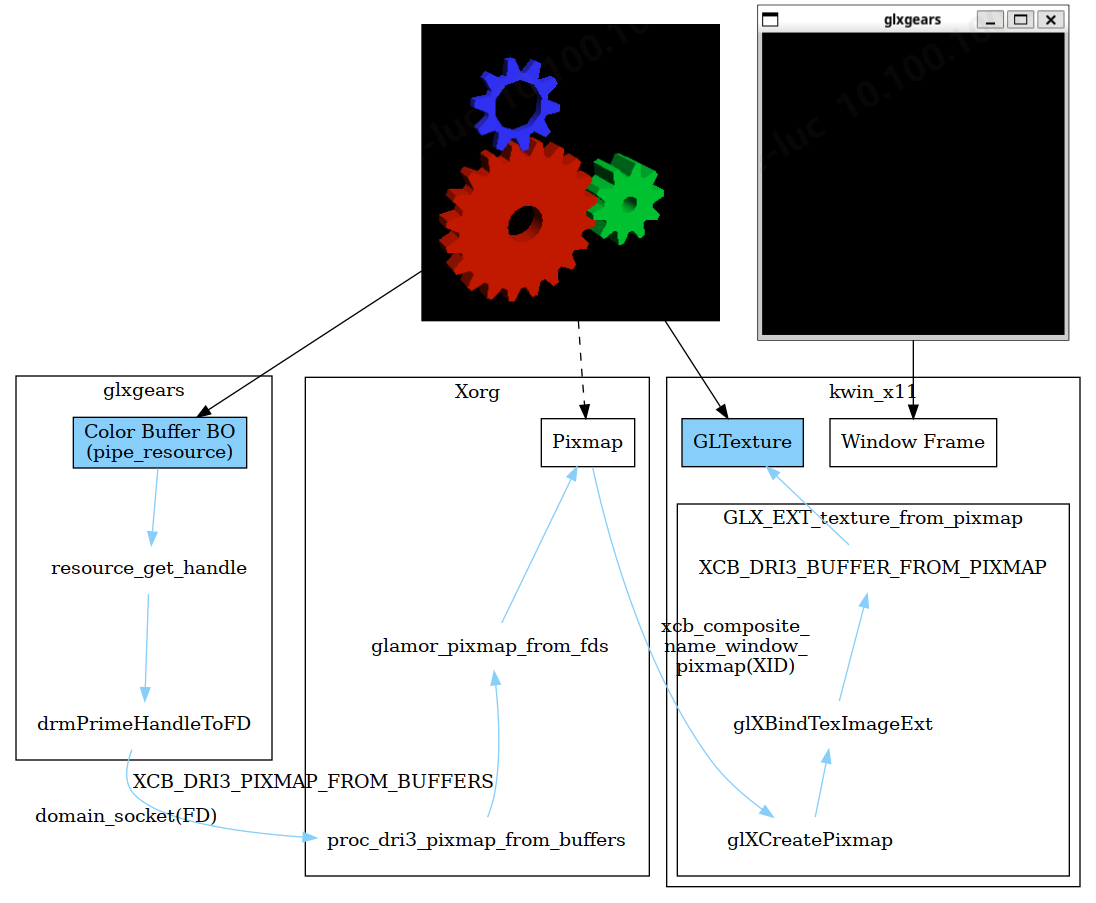
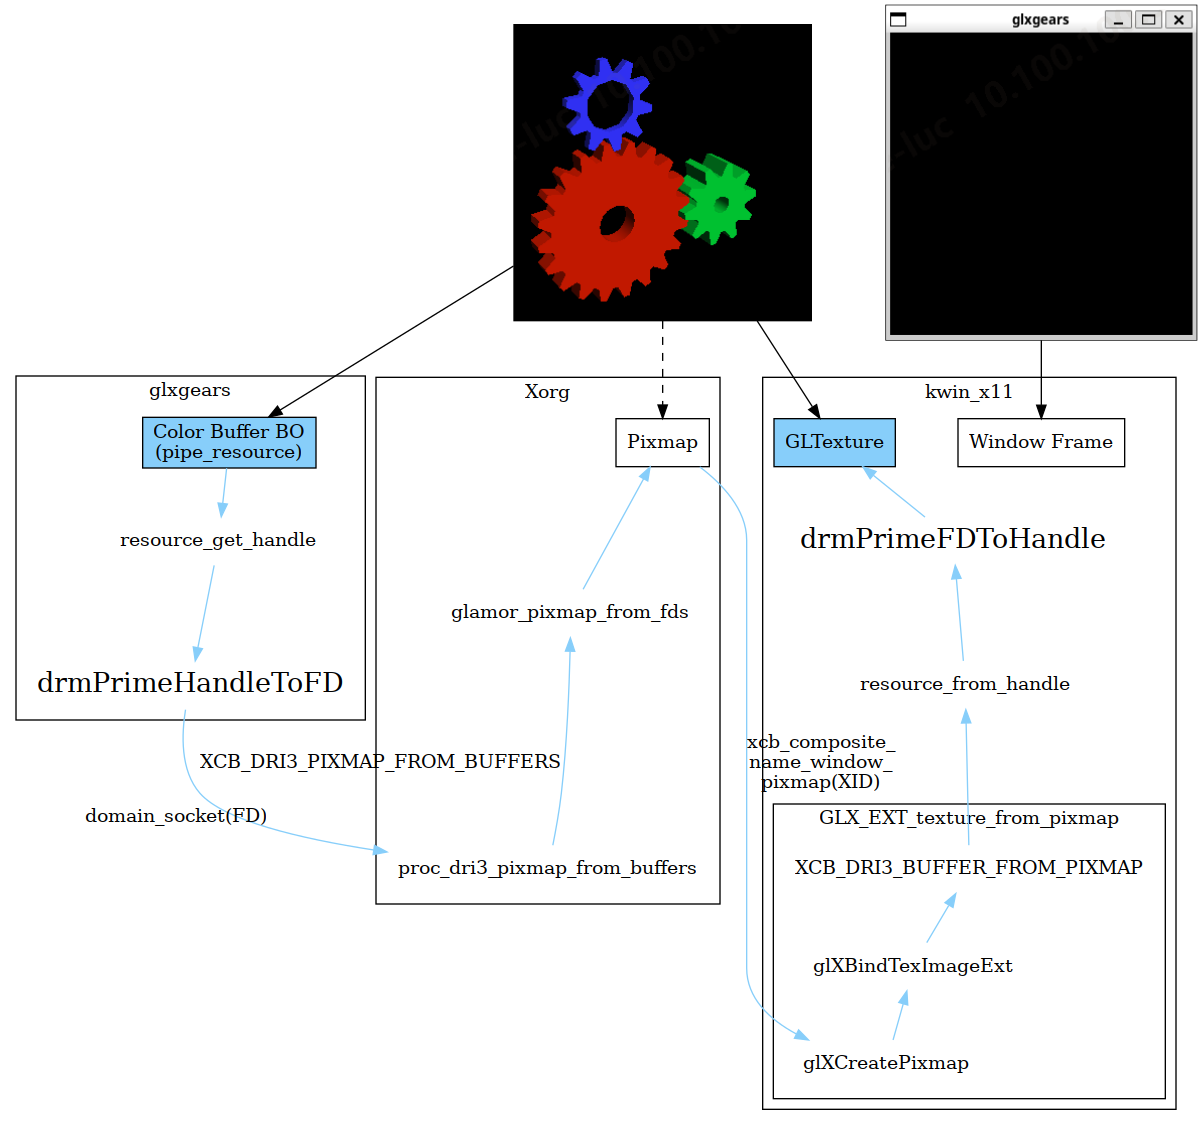
linux: dma-buf: update diagram

diff --git a/source/_posts/lnx/dma-buf.md b/source/_posts/lnx/dma-buf.md
@@ -7,29 +7,7 @@ categories: linux
 
 # DMA-BUF
 
-```mermaid
-flowchart BT
-	App@{ img: "/images/dma-buf/window-content.png", label: "vram for rendering", pos: "d", w: 60, h: 60, constraint: "on" }
-	Window@{ img: "/images/dma-buf/window-frame.png", label: "vram for window frame", pos: "d", w: 60, h: 60, constraint: "on" }
-
-	subgraph app [glxgears]
-		BO_10
-	end
-	subgraph x11 [Xorg]
-		BO_20
-		BO_11
-	end
-	subgraph compositor [kwin_x11]
-		BO_21
-	end
-
-	App ~~~ BO_10 --Exporter--> App
-	App --Importer--> BO_11
-
-	Window ~~~ BO_20 --Exporter--> Window
-	Window --Importer--> BO_21
-```
-
+![](/images/mesa-dri3/mesa-dri3.png)
 <!--more-->
 
 DMA-BUF 是 Linux 内核驱动中在上下文间，进程间，设备间，子系统间共享 buffer 的一种机制。 大概在[内核 3.2 版本就实现了](https://lwn.net/Articles/473668/)。 按最初的设计文档描述的，该框架大致是这样的:
